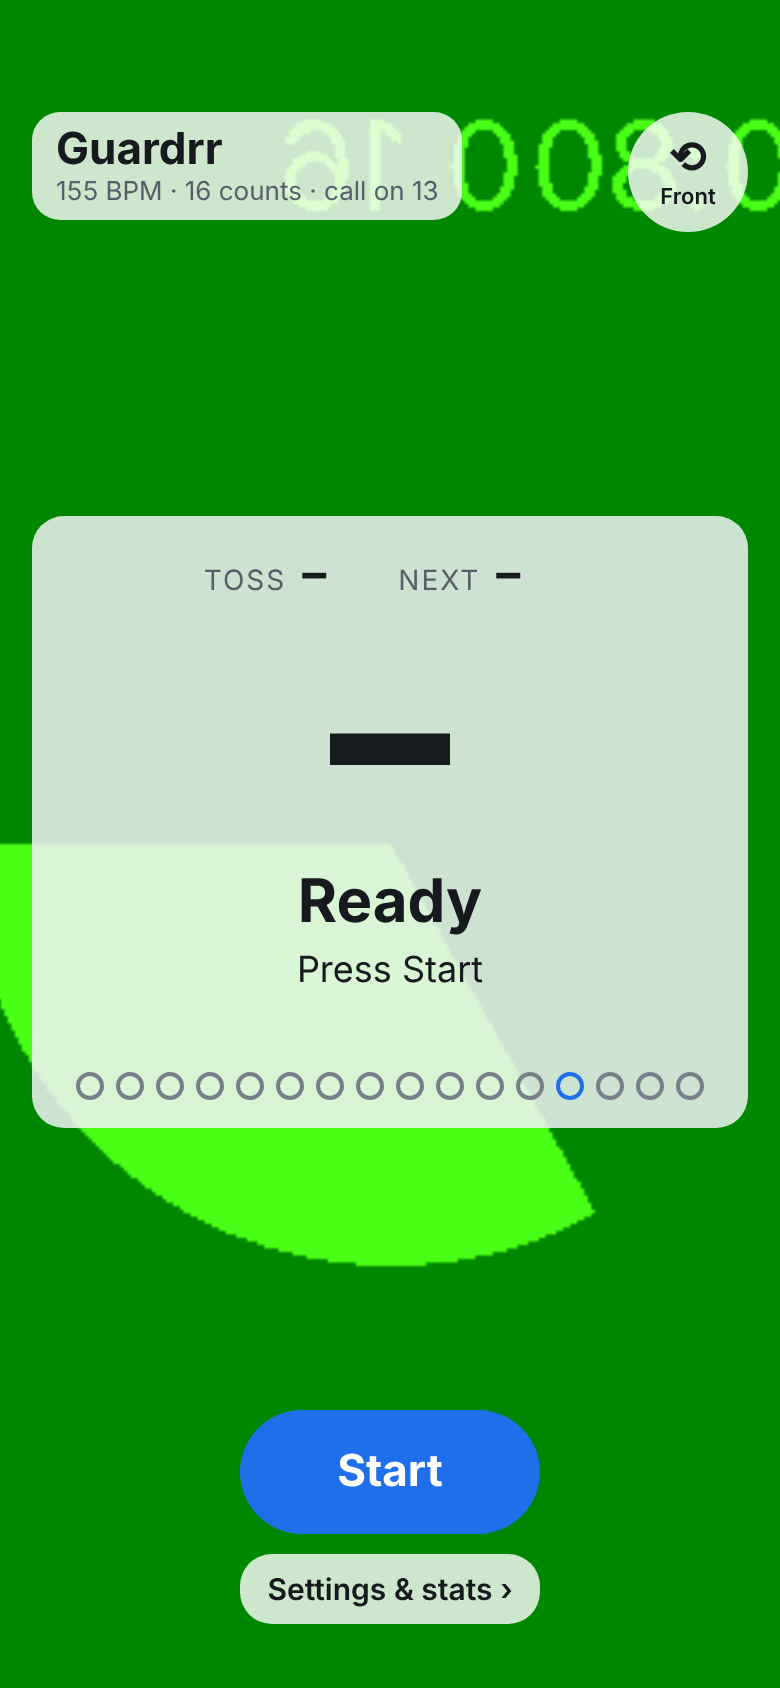
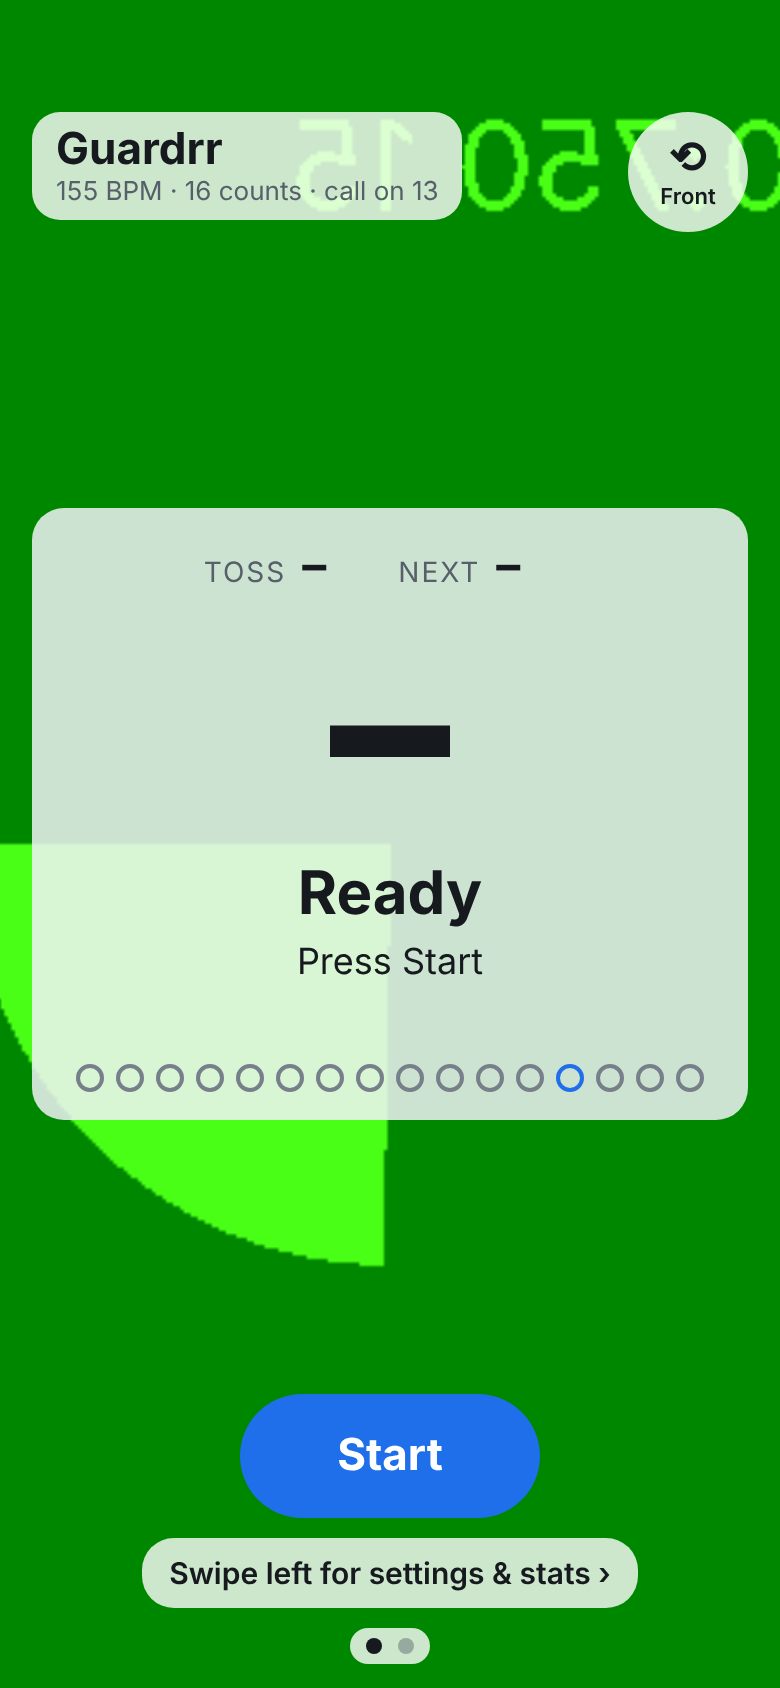
docs: roadmap, changelog, README and screenshots for preset rename/update and page dots
Claude-Session: https://claude.ai/code/session_01UV53BGj3b5jw23ucbmN8na

diff --git a/README.md b/README.md
@@ -20,7 +20,7 @@ The app opens on the **practice screen**: the **front camera** fills the screen 
 a mirror) so you can watch your toss, with the count display and **Start** / **Drop** over it. The
 round button at the top right **flips** to the back camera, for propping the phone up facing you.
 Nothing is recorded. **Swipe left** (or tap **Settings & stats ›**) for everything else: stats,
-History, presets, camera options and settings.
+History, presets, camera options and settings. Two dots at the bottom show which page you're on.
 
 Press **Start** and practice. The display shows the current count, the toss being
 thrown and the next call once it's spoken, flashes **Release!** and **Catch!**, counts down to the
@@ -39,7 +39,8 @@ or clear the whole history (it asks first); every delete can be undone right aft
 **Presets** set up a whole drill in one tap: _Standard 16_, _Quick 8_, _Singles & doubles_
 (short tosses with "and" catches), _Big tosses_ (5–8, called 8 counts early) and _Slow 32_. Set
 things up your own way and tap **Save as preset…** to keep it as a chip of your own (up to 12;
-select one to delete it, with Undo).
+select one to rename or delete it, with Undo). Tweak one of your presets and **Update "name"**
+writes the change back to it; change only the tempo and it offers **Save 150 BPM to "name"**.
 
 Below that you can fine-tune:
 
@@ -81,9 +82,9 @@ practice screen is Chromium's fake camera; on the phone it's you.
 | ---------------------------------------------------------------------- | ------------------------------------------------------------- | --------------------------------------------------------------------------- | ------------------------------------------------------------------ |
 | ![Stats and history after Stop](docs/screenshots/05-stats-history.png) | ![History in edit mode](docs/screenshots/06-history-edit.png) | ![Settings → Calls with Odd picked](docs/screenshots/07-settings-calls.png) | ![Dark theme on the release](docs/screenshots/08-dark-release.png) |
 
-| Saving a preset                                             | Your preset                                                      |
-| ----------------------------------------------------------- | ---------------------------------------------------------------- |
-| ![Naming a new preset](docs/screenshots/09-save-preset.png) | ![The saved preset, selected](docs/screenshots/10-my-preset.png) |
+| Saving a preset                                             | Your preset                                                      | Updating it                                                                                  |
+| ----------------------------------------------------------- | ---------------------------------------------------------------- | -------------------------------------------------------------------------------------------- |
+| ![Naming a new preset](docs/screenshots/09-save-preset.png) | ![The saved preset, selected](docs/screenshots/10-my-preset.png) | ![Changed calls: update the preset or save a new one](docs/screenshots/11-update-preset.png) |
 
 ## Tech
 

diff --git a/CHANGELOG.md b/CHANGELOG.md
@@ -1,5 +1,50 @@
 # Changelog
 
+## 2026-11-06
+
+### Added
+
+- **Rename your presets.** Select one of your own presets: **Rename** sits next to **Delete**.
+  The name form opens with the current name; the same rules as saving apply (no empty names, no
+  name another preset already has; changing only the letter case is fine).
+- **Update a preset with new settings** (roadmap: "update preset with current settings"). Apply
+  one of your presets and change its calls, phrase or lead counts: Presets says _Changed from
+  "name"_ and offers **Update "name"** next to **Save as new…**. Change only the tempo and it
+  offers **Save 150 BPM to "name"**. Built-in presets are never changed.
+  - Engine: `renameCustomPreset`, `renameProblem`, `updateCustomPreset`, `presetUpdateOffer`;
+    the `useCustomPresets` hook gains `renamePreset` / `updatePreset`.
+- **Page dots** at the bottom of both pages, and a first-open hint: the practice link reads
+  **Swipe left for settings & stats ›** until you've opened the settings page once (remembered).
+  Page math lives in `src/engine/pages.ts` and clamps iOS overscroll to a real page.
+- Smoke test: 7 new checks (46 total). Screenshot `11-update-preset` added to the README gallery.
+- 15 new unit tests (367 total).
+
+### Fixed
+
+- An Odd/Even preset saved with "and" calls was described as "Odd calls 1–15 and"; it now reads
+  "Odd calls 1–15 with ands". Spotted in today's screenshots.
+
+### Decisions
+
+- **Update** is offered for the custom preset you applied (or saved) last on the settings page,
+  remembered until you apply another preset; it isn't remembered across app restarts (after a
+  restart, apply the preset again first). This keeps the button from guessing which preset a
+  random tweak belongs to.
+- Update is refused if the new settings already match another preset, so there are still never
+  two chips for one drill.
+- Rename, Update and Delete stay available while practicing; they don't touch the running drill.
+- The "seen the settings page" flag lives in the stored settings blob (`swipeHintSeen`) rather
+  than a new storage key; settings saved before today show the hint once.
+
+### To test on your phone
+
+- First open after `git pull`: the link under Start should say "Swipe left for settings &
+  stats ›"; swipe left once and it goes back to "Settings & stats ›", also after a restart.
+- Check the two dots sit clear of the iPhone home indicator on the practice page and don't cover
+  anything important at the bottom of the settings page.
+- Save a preset, rename it, change its calls and tap **Update**; tap another preset and back:
+  the update should stick.
+
 ## 2026-11-05
 
 ### Changed (Niv's feedback, same day)

diff --git a/ROADMAP.md b/ROADMAP.md
@@ -34,7 +34,7 @@
 - [ ] Camera: check on device that the preview doesn't add audio/haptic latency or drain the
       battery too fast in a long session; consider a "dim display" option.
 - [ ] Camera: optional recording of a session (needs microphone permission decision, storage).
-- [ ] Practice page: page dots / a swipe hint the first time the app opens.
+- [x] Practice page: page dots / a swipe hint the first time the app opens.
 
 ## Discovered along the way
 
@@ -82,6 +82,8 @@
 - [ ] History: swipe a row to delete (today: Edit → ✕), if Edit mode feels slow on device.
 - [ ] History: filter by tempo / phrase length (e.g. only sessions at 120 BPM, 16 counts).
 - [x] Accessibility (web): radio/checkbox chips expose `aria-checked` (RN Web ignores `accessibilityState`).
-- [ ] Custom presets: rename, reorder, and "update preset with current settings".
+- [x] Custom presets: rename, and "update preset with current settings" (also "Save N BPM to …").
+- [ ] Custom presets: reorder (drag, or move up/down).
+- [ ] Page dots: tap a dot to switch pages; check on device they don't sit under the iOS home indicator (safe-area insets).
 - [ ] Custom presets: optionally include sound options (accent, "and" clicks, voice) — today a preset is tempo + toss settings only, like the built-ins.
 - [ ] Show which preset a History session used (needs the preset id saved with the session).
